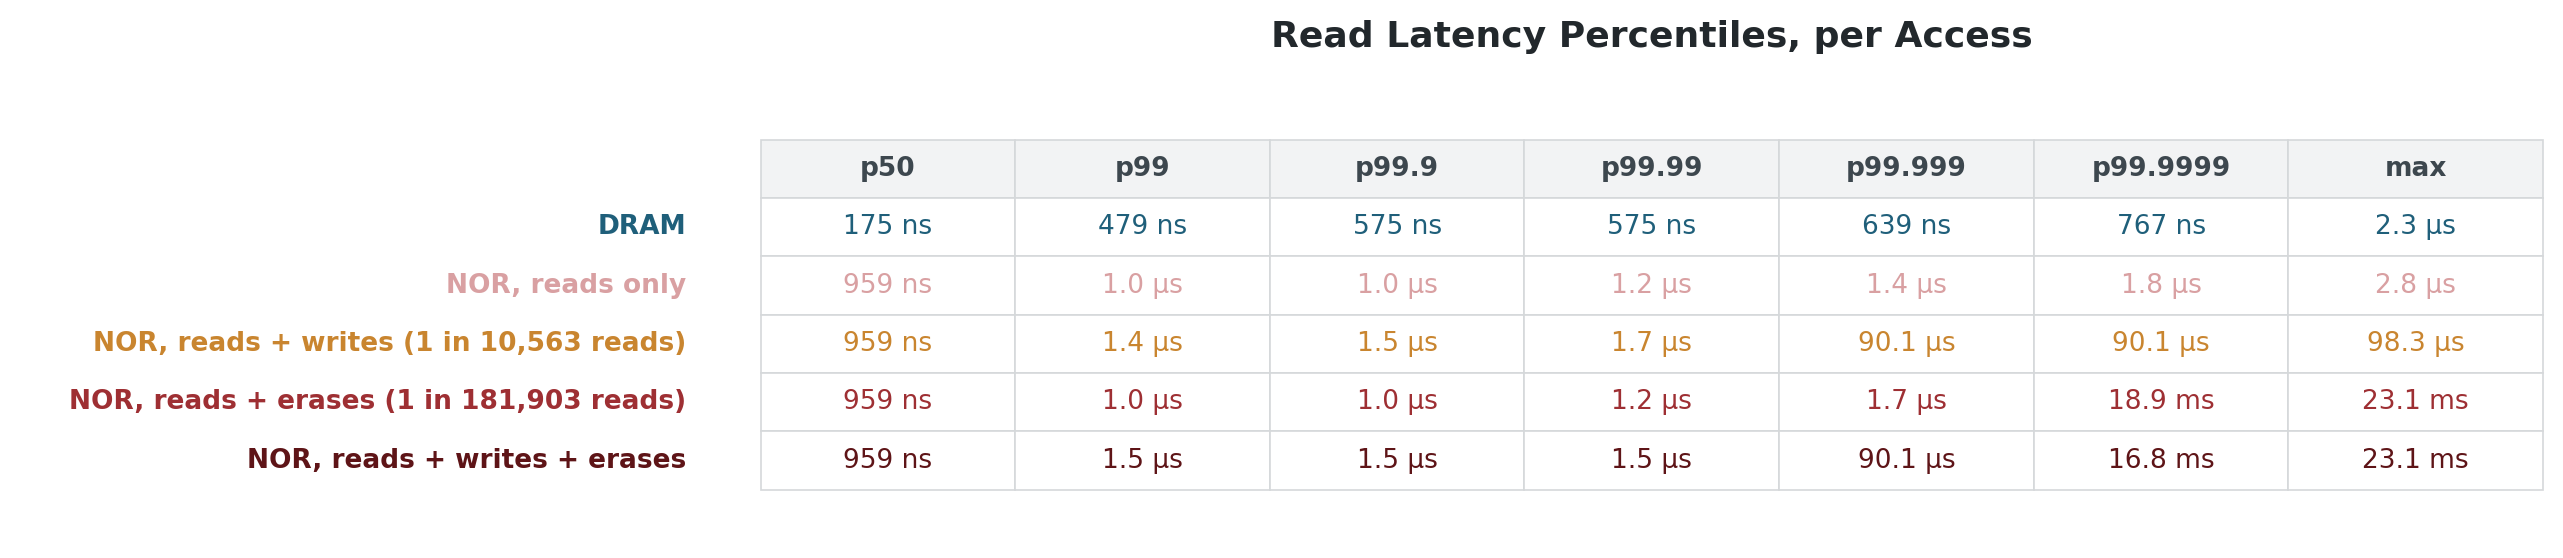
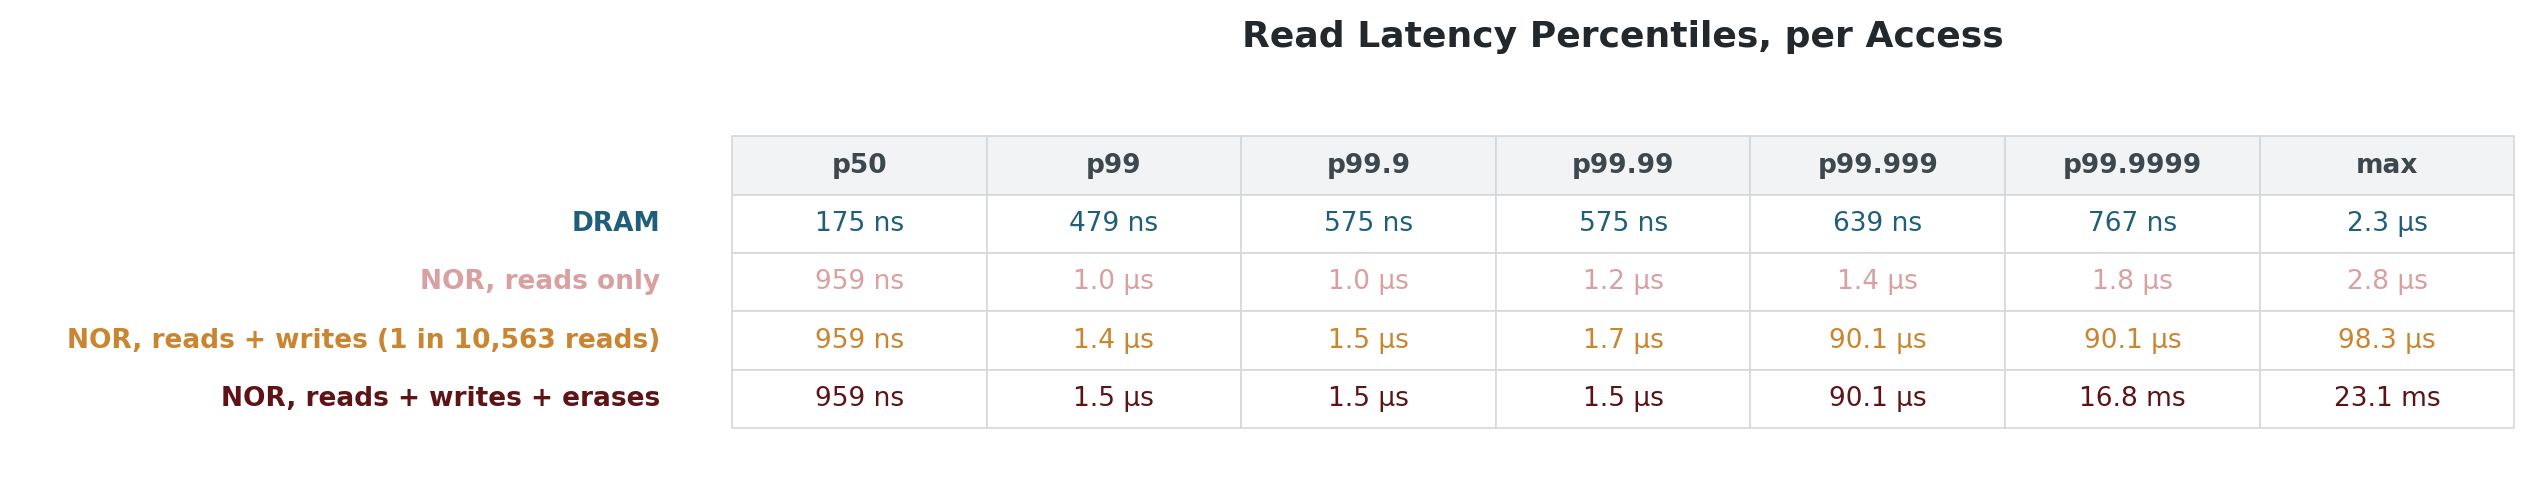
fig9/9b: show three NOR conditions, not four
Reads only -> +writes -> +writes+erases is one incremental story, each step
adding exactly one thing. The erase-only condition sat in the middle of that
sequence without advancing it: its 22.3 ms step is the same step the combined
case already shows, so it cost a curve and a table row to restate a result.

It stays measured and stays in qos-matrix-5cond.csv -- it is the control that
proves the 22.3 ms comes from erases rather than from writes and erases
interacting -- it just does not earn a line on the figure. A footnote says so
rather than leaving the reader to wonder why the run had five conditions.

diff --git a/scripts/plot_selftest.py b/scripts/plot_selftest.py
@@ -575,7 +575,7 @@ if r:
     # real, but it is not an operating point the system runs in, because the
     # 30 ms reader spacing is only disabled by clearing target_pid, which is a
     # measurement artefact. Both stay in qos.csv.
-    HIDE = {"engine_normal", "engine_flat_out", "engine_on"}
+    HIDE = {"engine_normal", "engine_flat_out", "engine_on", "nor_erase"}
     have = [(c,) + LABEL.get(c, (C_MODEL, c.replace("_", " "))) for c in present
             if hist(c) and c not in HIDE]
     if have:
@@ -708,7 +708,9 @@ if r:
                   f"all {len(have)} conditions measured in one run, {reps[0]} each, identical settings: "
                   f"same binary, same pinned CPU, target_pid held on a sleeper throughout.\n"
                   f"{ns[0]/1e6:.0f}\u2013{ns[-1]/1e6:.0f} M individually timed reads per condition. "
-                  f"No pooling, no averaging.",
+                  f"No pooling, no averaging.\n"
+                  f"A fifth condition, erases without writes, was measured and is kept in the data; "
+                  f"it is omitted here because the combined case shows the same erase step.",
                   fontsize=7.6, color="#7A838A", va="bottom", linespacing=1.5)
         fig2.subplots_adjust(bottom=0.185)
         fig2.savefig(f"{OUT}/fig9b-quantiles.png", dpi=200)
